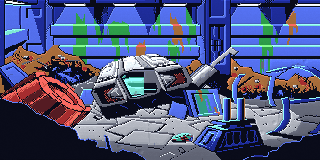
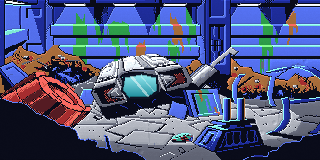
Repaint the pod window and the empty tube arch by hand (glass pane, receding tunnel) instead of patching; principle noted
Claude-Session: https://claude.ai/code/session_01KMMpWo1pAxVCtPqbSi1RBM

Changed region(s): [[0.375, 0.4375, 0.5, 0.625]]

diff --git a/tools/paint/touchup.py b/tools/paint/touchup.py
@@ -1,0 +1,85 @@
+"""Hand-painted touch-ups that go over the restyled pictures where the original shows a figure (Roger): instead of patching with
+copied pixels, the area is repainted as a proper object that fits its surroundings. Coordinates are in picture pixels (320x160)."""
+import numpy as np
+from PIL import Image, ImageDraw, ImageFilter
+
+
+def _mask(size, pts):
+    m = Image.new("L", size, 0)
+    ImageDraw.Draw(m).polygon(pts, fill=255)
+    return np.asarray(m) > 127
+
+
+def _grad(a, mask, y0, y1, c0, c1):
+    h, w = mask.shape
+    yy = np.arange(h)[:, None].repeat(w, 1).astype(np.float32)
+    t = np.clip((yy - y0) / max(1.0, y1 - y0), 0, 1)[..., None]
+    col = np.asarray(c0, np.float32) + (np.asarray(c1, np.float32) - np.asarray(c0, np.float32)) * t
+    a[mask] = col[mask]
+
+
+def crash_site(img):
+    """the pod's cockpit window: a glass pane in a dark frame, lit from the top left, with a reflection streak"""
+    a = np.asarray(img.convert("RGB")).astype(np.float32).copy()
+    size = img.size
+    pane = [(125, 77), (141, 74), (155, 77), (156, 90), (148, 96), (129, 97), (123, 90)]
+    inner = _mask(size, pane)
+    frame = _mask(size, [(123, 75), (141, 72), (157, 75), (158, 92), (149, 98), (128, 99), (121, 91)])
+    a[frame & ~inner] = (14, 18, 36)                                   # the dark frame around the pane
+    _grad(a, inner, 74, 97, (150, 236, 244), (30, 140, 156))           # glass: light at the top, deep teal at the bottom
+    h, w = inner.shape
+    yy, xx = np.mgrid[0:h, 0:w]
+    streak = inner & (np.abs((xx - 126) - (yy - 75) * 0.85 - 4) < 1.6)
+    a[streak] = np.minimum(255, a[streak] * 0.5 + 255 * 0.5)          # a diagonal reflection
+    streak2 = inner & (np.abs((xx - 136) - (yy - 75) * 0.85 - 4) < 0.8)
+    a[streak2] = np.minimum(255, a[streak2] * 0.7 + 255 * 0.3)
+    rim_top = inner & ~_mask(size, [(125, 78), (141, 75), (155, 78), (155, 90), (148, 95), (129, 96), (124, 90)])
+    a[rim_top] *= 0.72                                                 # a soft shaded rim inside the glass edge
+    return Image.fromarray(np.clip(a, 0, 255).astype(np.uint8))
+
+
+def _arch(d, cx, base_y, half_w, height, fill=None, outline=None, width=1):
+    """an arch (a rectangle with a round top) centred on cx, standing on base_y"""
+    r = half_w
+    top = base_y - height
+    box_top = top + r
+    if fill is not None:
+        d.rectangle([cx - half_w, box_top, cx + half_w, base_y], fill=fill)
+        d.ellipse([cx - half_w, top, cx + half_w, top + 2 * r], fill=fill)
+    if outline is not None:
+        d.arc([cx - half_w, top, cx + half_w, top + 2 * r], 180, 360, fill=outline, width=width)
+        d.line([cx - half_w, box_top, cx - half_w, base_y], fill=outline, width=width)
+        d.line([cx + half_w, box_top, cx + half_w, base_y], fill=outline, width=width)
+
+
+def tube_entrance(img):
+    """the empty left arch: a tunnel that recedes into the dark in nested arch ribs towards a faint far light. Crisp edges, a few
+    flat shades, lit on the left. Only the opening is painted; the ground in front of it is the original floor."""
+    a = np.asarray(img.convert("RGB")).astype(np.float32).copy()
+    size = img.size
+    h, w = a.shape[:2]
+    yy, xx = np.mgrid[0:h, 0:w]
+    cx, base = 59, 124
+    outer = Image.new("RGB", size, (0, 0, 0))
+    d = ImageDraw.Draw(outer)
+    # the tunnel as nested arches, each smaller, higher and lighter than the one before
+    steps = [(18, 36, (14, 18, 42)), (15, 30, (20, 24, 54)), (12, 24, (28, 32, 66)), (9, 18, (38, 44, 82)), (6, 12, (52, 60, 104)), (3, 6, (90, 110, 150))]
+    mask_all = Image.new("L", size, 0)
+    ImageDraw.Draw(mask_all).rectangle([cx - 18, base - 36 + 18, cx + 18, base], fill=255)
+    ImageDraw.Draw(mask_all).ellipse([cx - 18, base - 36, cx + 18, base - 36 + 36], fill=255)
+    for k, (hw, ht, col) in enumerate(steps):
+        by = base - k * 2                                    # each rib stands a little higher: the floor rises towards the far end
+        _arch(d, cx, by, hw, ht, fill=col)
+        _arch(d, cx - 1, by, hw, ht, outline=tuple(min(255, int(c * 1.5)) for c in col))   # a lit left edge on every rib
+    inside = np.asarray(mask_all) > 127
+    paint = np.asarray(outer).astype(np.float32)
+    a[inside] = paint[inside]
+    # shade the right wall of the tunnel
+    right = inside & (xx > cx + 6)
+    a[right] *= 0.8
+    # the far light: a small bright slit
+    a[(yy >= base - 22) & (yy <= base - 19) & (xx >= cx - 2) & (xx <= cx + 2)] = (170, 200, 230)
+    return Image.fromarray(np.clip(a, 0, 255).astype(np.uint8))
+
+
+TOUCHUPS = {"crash_site": crash_site, "tube_entrance": tube_entrance}

diff --git a/tools/paint/build_act1.py b/tools/paint/build_act1.py
@@ -77,6 +77,9 @@ def main():
         if name == "yard_ladder":          # same palette as the other ship-yard picture
             pal = Image.open(OUT + "yard.png").convert("RGB").quantize(colors=112, method=Image.Quantize.MEDIANCUT, dither=Image.Dither.NONE)
         img, cmap = restyle(p, erase=boxes, donor=donor, zones=ZONES.get(name), return_class=True, palette_from=pal)
+        from touchup import TOUCHUPS
+        if name in TOUCHUPS:
+            img = TOUCHUPS[name](img)
         img.save(OUT + name + ".png")
         CLASSES[name] = cmap
         done.append(name)

diff --git a/docs/ART_PRINCIPLES.md b/docs/ART_PRINCIPLES.md
@@ -33,6 +33,9 @@ Rules of thumb:
 - Wear stays **sparse and subtle** (agreed after a review): a few dents, a few dark scratches, a little grime. **No bright or white scratches** (they read as vapour). If an object looks 'made of damage', there are too many marks.
 - One palette per picture (112 colours, no dither); pictures that show the same place share a palette.
 
+- **Painting out figures:** never patch with copied or filled pixels (it gives repeats and boxes). Repaint the area as a proper object that
+  fits its surroundings (`tools/paint/touchup.py`: the pod window as a glass pane, the empty arch as a receding tunnel). A sensible picture first, closeness to the original second.
+
 ## 3b. Animation (Lucasfilm style, not Sierra)
 - Reference: the Sierra video shows content only (what happens), not the style of motion. The motion style follows the SCUMM/Lucasfilm
   conventions as far as they are known to us from stills: a character turns to face the way he walks (side, front, back; left is the side view flipped),
